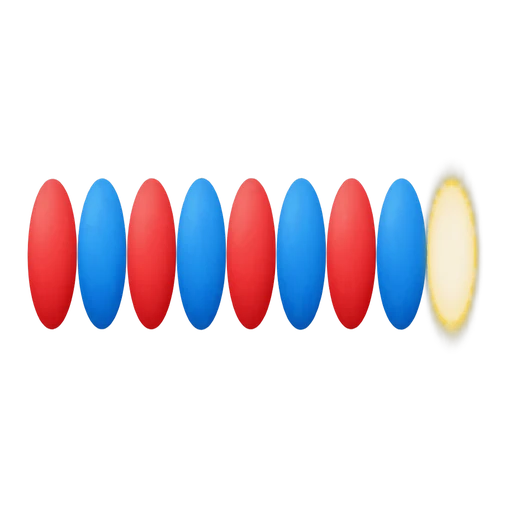
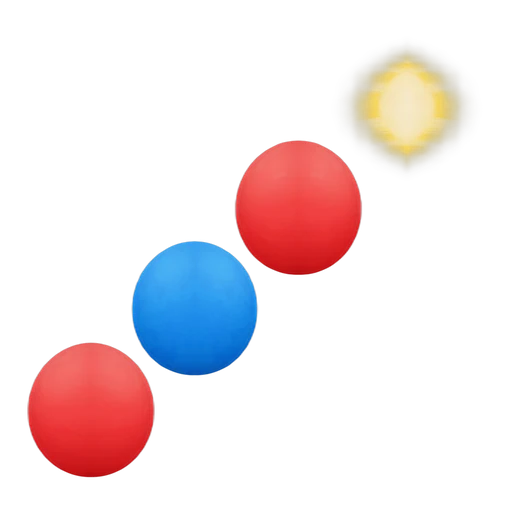
Fix two squashed KG card pictures (story, pattern)
- art/fixes/<id>.png replaces a raw picture at build time (raw files stay as generated)
- game-story-card: eggs reshaped to natural proportions, chick unchanged
- game-pat-card: thin slivers rebuilt as round beads, climbing to the glowing «next» slot

Claude-Session: https://claude.ai/code/session_01EquQvYD5TZUB5tECHhtwTk

diff --git a/source/tools/art_process.py b/source/tools/art_process.py
@@ -142,6 +142,10 @@ def icons(img):
     return out
 
 
+# art/fixes/<id>.png: corrections made after generation (e.g. game-story-card: the eggs were drawn too thin).
+# They replace the raw picture when the site is built; the raw files are never changed.
+HERE_FIXES = os.path.join(os.path.dirname(os.path.dirname(os.path.abspath(__file__))), 'art', 'fixes')
+
 def main(raw_dir):
     mdir = manifest_dir()
     entries = []
@@ -152,6 +156,8 @@ def main(raw_dir):
     for e in entries:
         rel = e['file'] if e['file'].startswith('assets/') else EXTRA.get(e['id'])
         src = os.path.join(raw_dir, e['id'] + '.png')
+        fix = os.path.join(HERE_FIXES, e['id'] + '.png')   # a corrected version made here (the raw file stays as generated)
+        if os.path.exists(fix): src = fix
         if not rel or not os.path.exists(src): continue
         smrel = rel.replace('.webp', '-sm.webp') if any(k in rel for k in SMALL) else None
         facerel = rel.replace('.webp', '-face.webp') if '/avatars/' in rel and not e['id'].endswith('-happy') else None
